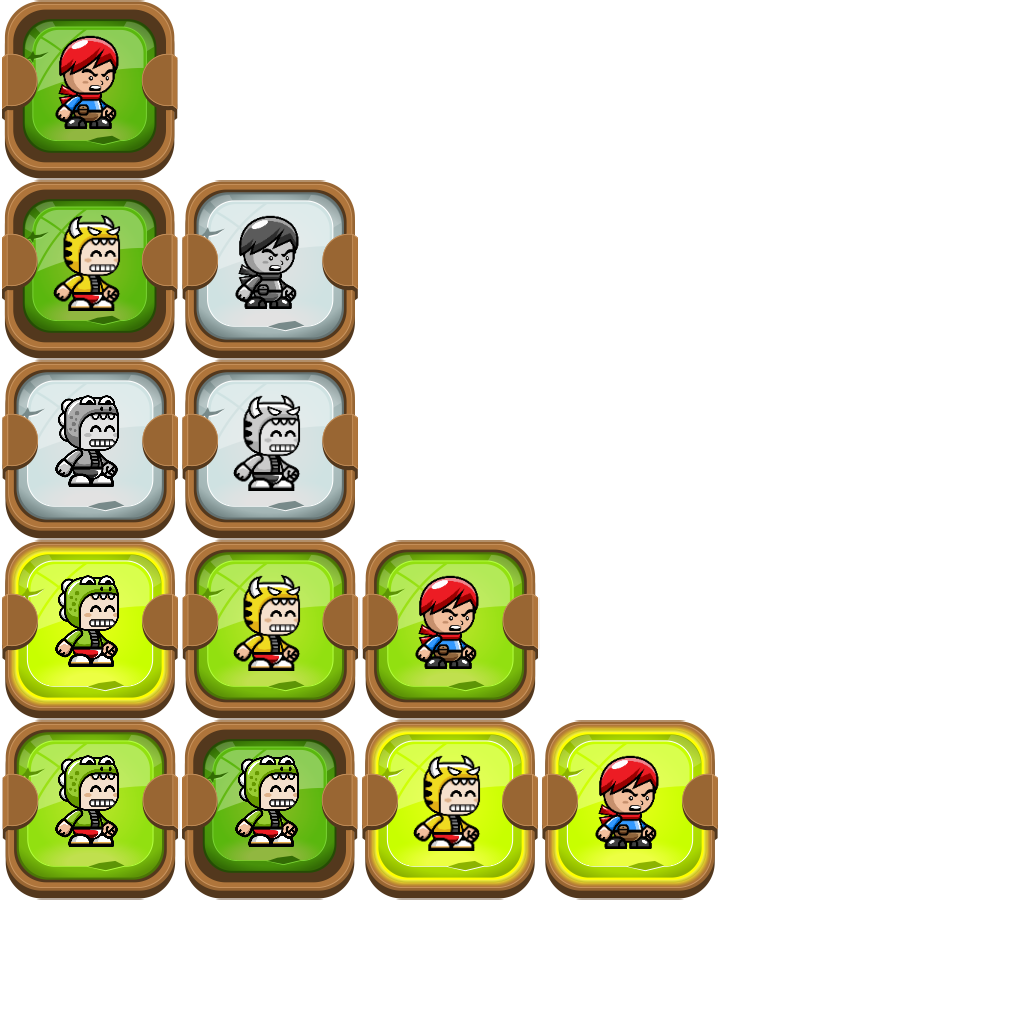
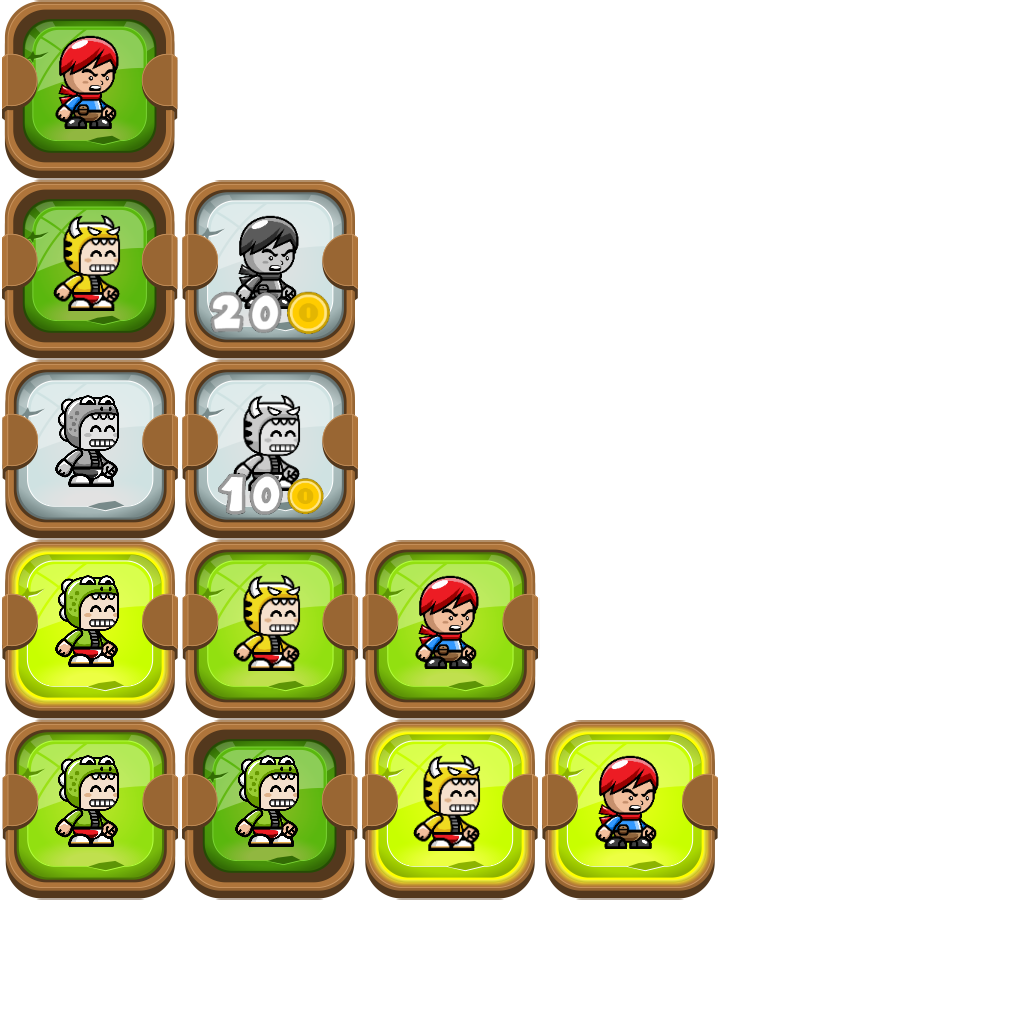
final version of skin buttons

Changed region(s): [[0.1875, 0.2812, 0.3438, 0.3438], [0.2188, 0.4375, 0.3125, 0.5]]

diff --git a/BlockBoy/core/src/com/lpoo/blockboy/gui/OptionsScreen.java b/BlockBoy/core/src/com/lpoo/blockboy/gui/OptionsScreen.java
@@ -353,8 +353,8 @@ public class OptionsScreen implements Screen {
                     BlockBoy.lockSkins[0] = false;
                     hero1Btn.setStyle(st1);
                     hero1Btn.setDisabled(true);
-                    if(BlockBoy.skinInd == 1) hero2Btn.setDisabled(false);
-                    if(BlockBoy.skinInd == 2) hero3Btn.setDisabled(false);
+                    hero2Btn.setDisabled(false);
+                    hero3Btn.setDisabled(false);
                     BlockBoy.saveData();
 
                 }
@@ -375,14 +375,14 @@ public class OptionsScreen implements Screen {
                     if(BlockBoy.skinInd == 0) hero1Btn.setDisabled(false);
                     if(BlockBoy.skinInd == 2) hero3Btn.setDisabled(false);
                     BlockBoy.skinInd = 1;
-                }else if (BlockBoy.coinScore >= 10){
-                    BlockBoy.coinScore -= 10;
+                }else if (BlockBoy.coinScore >= 2){
+                    BlockBoy.coinScore -= 2;
                     BlockBoy.skinInd = 1;
                     BlockBoy.lockSkins[1] = false;
                     hero2Btn.setStyle(st2);
+                    hero1Btn.setDisabled(false);
                     hero2Btn.setDisabled(true);
-                    if(BlockBoy.skinInd == 0) hero1Btn.setDisabled(false);
-                    if(BlockBoy.skinInd == 2) hero3Btn.setDisabled(false);
+                    hero3Btn.setDisabled(false);
                     BlockBoy.saveData();
 
                 }
@@ -408,9 +408,9 @@ public class OptionsScreen implements Screen {
                     BlockBoy.skinInd = 2;
                     BlockBoy.lockSkins[2] = false;
                     hero3Btn.setStyle(st3);
+                    hero1Btn.setDisabled(false);
+                    hero2Btn.setDisabled(false);
                     hero3Btn.setDisabled(true);
-                    if(BlockBoy.skinInd == 0) hero1Btn.setDisabled(false);
-                    if(BlockBoy.skinInd == 1) hero2Btn.setDisabled(false);
                     BlockBoy.saveData();
                 }
             }
